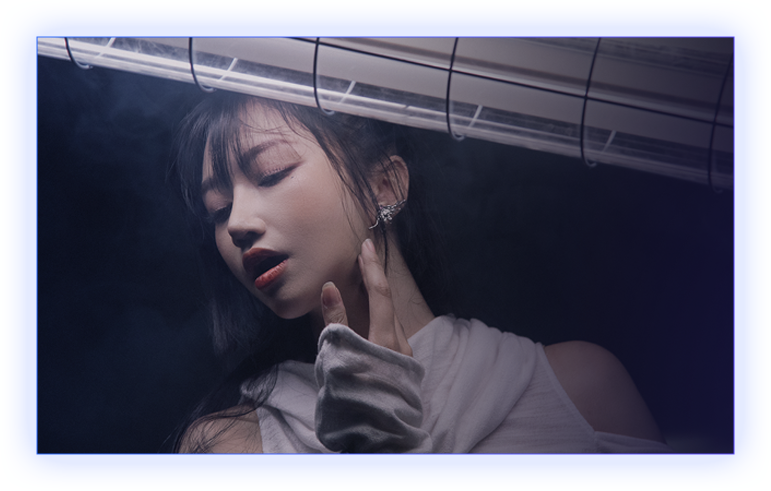
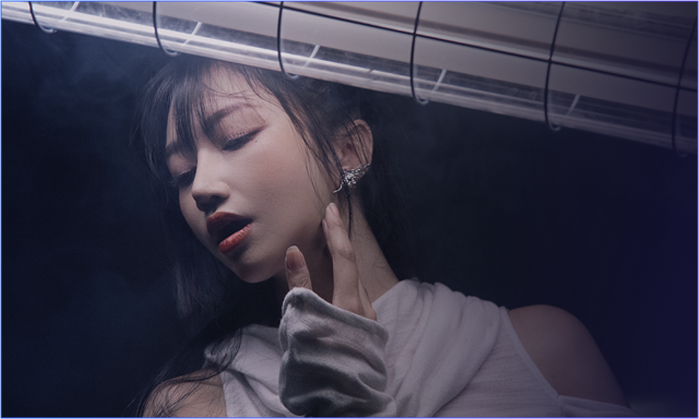
update css

diff --git a/public/scss/style.css b/public/scss/style.css
@@ -1174,6 +1174,10 @@ body {
   .main__center__social .box-social h1.title {
     font-size: 16px;
   }
+  .main__center__social .box-social .background img {
+    padding: 15px;
+    padding-top: 0;
+  }
   .main__center__social .box-social .background .wrapper-social {
     position: static;
     max-width: 100%;

diff --git a/public/scss/style.scss b/public/scss/style.scss
@@ -1247,6 +1247,10 @@ body {
 				font-size: 16px;
 			}
 			.background {
+				img {
+					padding: 15px;
+					padding-top: 0;
+				}
 				.wrapper-social {
 					position: static;
 					max-width: 100%;
